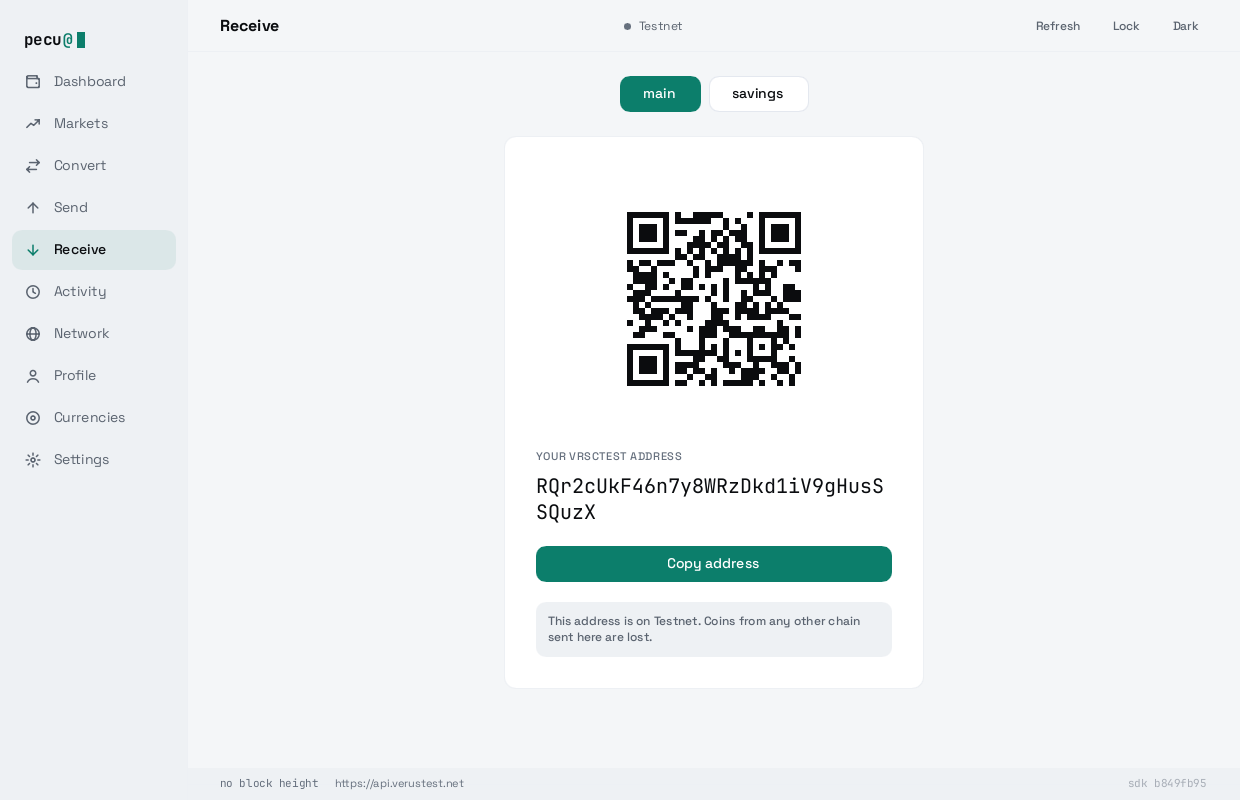
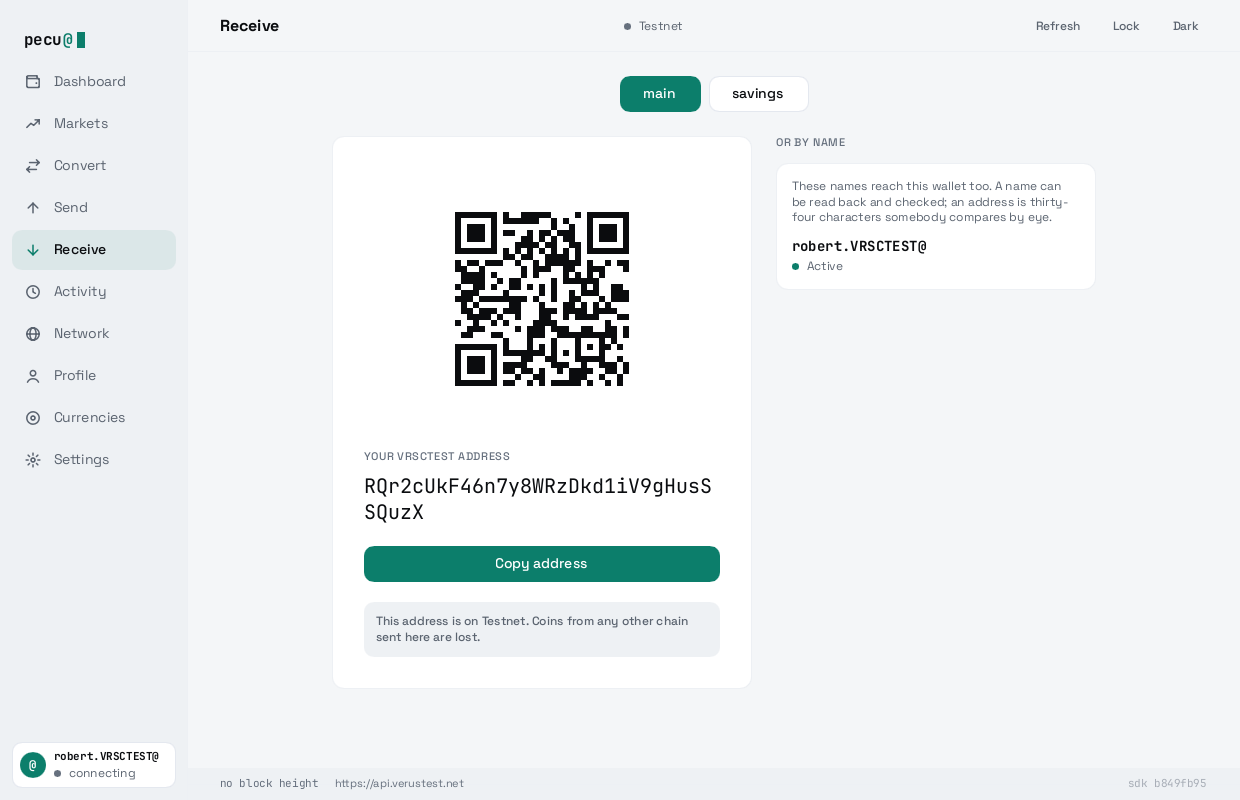
Give Send its contacts and Receive its names
Both screens were a single centred card. They are three columns and two
now, which is the design's shape — and each new column carries something
the wallet already knew and had nowhere to say.

## Send

**Left: who this wallet has paid.** The design calls it Contacts. It is
not an address book somebody fills in — it is who the core recorded once
a node accepted a payment, which makes it the one check a checksum
cannot do. A mistyped address that happens to be valid looks exactly like
a correct one, and "you have paid this before" is the only thing the
wallet can say about that. Clicking a row fills the recipient. It is the
same list the Addresses tab shows, so there is no second address book to
disagree with the first.

**Right: what is known before anything is built** — and this is where the
design and this wallet part company. The mockup puts Fee, Time and Total
on the form. **None of them can be known there.** The fee depends on
which coins the builder picks, which happens when the transaction is
built; that is the entire reason there is a review step, and why the
review reads its figures back out of something already signed rather than
out of what was typed. So the panel says what is true now — which key is
paying, what is spendable — and then says where the rest comes from. A
quoted fee that turned out to be a different fee would undo the one thing
the review exists for.

**Still no MAX button**, which the design also asks for, for the same
[…]

diff --git a/crates/pecu-ui/src/fixtures.rs b/crates/pecu-ui/src/fixtures.rs
@@ -587,6 +587,24 @@ pub fn sending(ui: &AppWindow) {
         key("savings", SECOND_ADDRESS, "generated", true, false),
     ]))));
     wallet.set_address(ADDRESS.into());
+
+    // Who this wallet has paid, which the send screen now shows beside the
+    // form. The same rows the Addresses tab lists — one list, one truth about
+    // who has been paid, rather than a second address book that could disagree
+    // with the first.
+    ui.global::<SendState>()
+        .set_known(ModelRc::from(Rc::new(VecModel::from(vec![
+            KnownAddressRow {
+                address: SECOND_ADDRESS.into(),
+                label: "the exchange".into(),
+                summary: "3 payments · last 2 days ago".into(),
+            },
+            KnownAddressRow {
+                address: THIRD_ADDRESS.into(),
+                label: SharedString::new(),
+                summary: "1 payment · last in the last hour".into(),
+            },
+        ]))));
 }
 
 /// The review step, showing a payment that has been built and signed.
@@ -675,6 +693,19 @@ pub fn reviewing_identity(ui: &AppWindow) {
 /// address in a committed image.
 pub fn receiving(ui: &AppWindow) {
     unlocked(ui);
+
+    // A name this wallet controls, because the screen now offers it as the
+    // other way to be paid. Without one the panel is correctly absent — which
+    // is a state worth having too, but not the one this picture is of.
+    ui.global::<IdentityState>()
+        .set_rows(ModelRc::from(Rc::new(VecModel::from(vec![IdentityRow {
+            name: "robert.VRSCTEST@".into(),
+            address: "iGRp1CGkuro3LtGazX8W1PRjVupPVfe8Pv".into(),
+            status: "Active".into(),
+            tone: "online".into(),
+            note: SharedString::new(),
+            mine: true,
+        }]))));
 
     let wallet = ui.global::<WalletState>();
     wallet.set_ticker("VRSCTEST".into());
